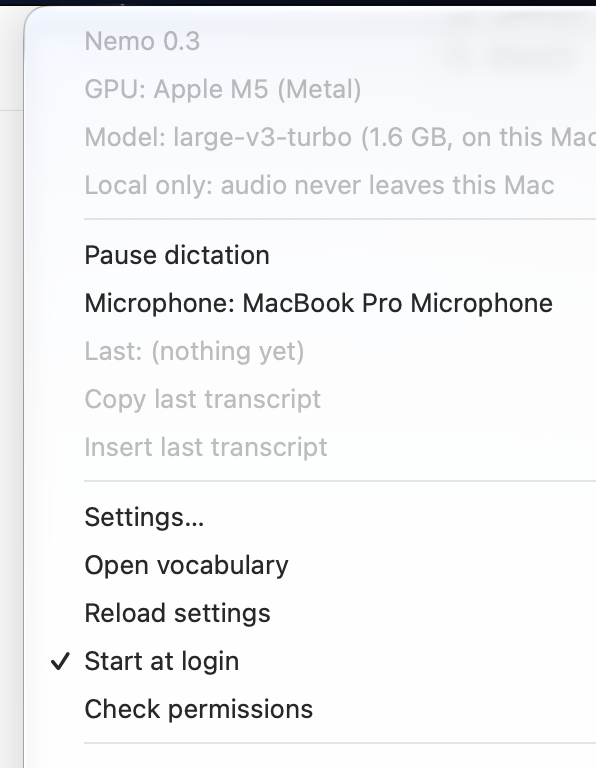
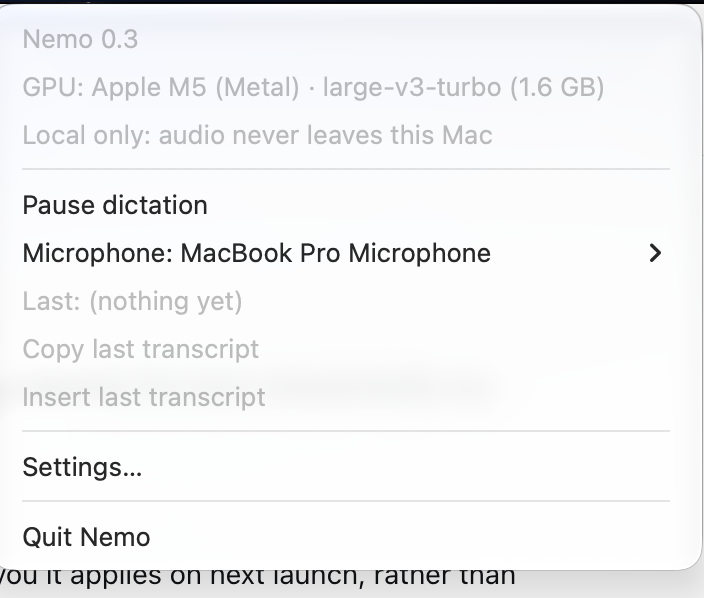
Menu: keep only what is about dictating
Settings absorbed vocabulary, reload, start-at-login and check-permissions, so the
menu drops them: fifteen rows down to ten. Engine and model share one line - two
facts, one row - and the microphone keeps its live name.

The menu is now: state, pause, microphone, history, Settings, Quit.

Changed region(s): [[0.0, 0.0, 1.0, 0.9933], [0.9664, 0.0, 0.9966, 0.0301]]

diff --git a/nemo_platform/macos/menubar.py b/nemo_platform/macos/menubar.py
@@ -231,8 +231,8 @@ class MenuBar:
     def _build_menu(self) -> NSMenu:
         menu = NSMenu.alloc().init()
         self._add(menu, "version", f"Nemo {self.version}", None, enabled=False)
+        # Engine and model on one line: two facts, one row, less to read.
         self._add(menu, "engine", "Engine: starting...", None, enabled=False)
-        self._add(menu, "model", "Model", None, enabled=False)
         self._add(menu, "privacy", "Local only: audio never leaves this Mac", None, enabled=False)
         menu.addItem_(NSMenuItem.separatorItem())
         self._add(menu, "pause", "Pause dictation", "pause:")
@@ -248,11 +248,9 @@ class MenuBar:
         self._add(menu, "copy", "Copy last transcript", "copy:")
         self._add(menu, "insert", "Insert last transcript", "insert:")
         menu.addItem_(NSMenuItem.separatorItem())
+        # Settings owns vocabulary, reload, login and permissions now; the menu
+        # keeps only what is about dictating.
         self._add(menu, "settings", "Settings…", "settings:")
-        self._add(menu, "vocab", "Open vocabulary", "vocabulary:")
-        self._add(menu, "reload", "Reload settings", "reload:")
-        self._add(menu, "startup", "Start at login", "startup:")
-        self._add(menu, "perms", "Check permissions", "permissions:")
         menu.addItem_(NSMenuItem.separatorItem())
         self._add(menu, "quit", "Quit Nemo", "quit:")
         return menu
@@ -268,7 +266,7 @@ class MenuBar:
     def _refresh(self, menu) -> None:
         self._rebuild_mic_menu()
         lines = self._lines()
-        for key, index in (("engine", 0), ("model", 1), ("privacy", 2)):
+        for key, index in (("engine", 0), ("privacy", 1)):
             item = self._items.get(key)
             if item is not None and index < len(lines) and lines[index]:
                 item.setTitle_(lines[index])
@@ -285,9 +283,6 @@ class MenuBar:
         pause = self._items.get("pause")
         if pause is not None:
             pause.setState_(1 if self._paused() else 0)
-        startup = self._items.get("startup")
-        if startup is not None:
-            startup.setState_(1 if self.startup_get() else 0)
         self._apply_icon()
 
     def _rebuild_mic_menu(self) -> None:

diff --git a/nemo.py b/nemo.py
@@ -1653,7 +1653,7 @@ def status_report(verify: bool = False) -> int:
 
 # ---- what the app says about itself ---------------------------------------
 def describe_engine(server: "Server") -> list:
-    """Three facts for the tray menu, each one true of the running process.
+    """Two facts for the menu, each one true of the running process.
 
     Written as a module function rather than a closure so it can be tested: the
     point of these lines is that they report reality, so "does it say the right
@@ -1674,14 +1674,13 @@ def describe_engine(server: "Server") -> list:
     model_name = Path(MODEL_FILE).stem.replace("ggml-", "")
     try:
         gb = MODEL.stat().st_size / 1e9
-        where = "Mac"
-        model = f"Model: {model_name} ({gb:.1f} GB, on this {where})"
+        model = f" · {model_name} ({gb:.1f} GB)"
     except OSError:
-        model = f"Model: {model_name}"
+        model = f" · {model_name}"
 
-    # The claim worth making, and the one a user can check: the audio goes to a
-    # loopback port answered by a process on this machine, and nowhere else.
-    return [engine, model, privacy_line()]
+    # One line for what is doing the work and with what; then the claim a user can
+    # check: the audio goes to a loopback port answered on this machine, nowhere else.
+    return [f"{engine}{model}", privacy_line()]
 
 
 def main() -> int:

diff --git a/README.md b/README.md
@@ -44,8 +44,9 @@ The pill appears on whichever screen holds the pointer, and the menu bar icon tu
 
 ![Every pill state](docs/pill-states.png)
 
-The menu carries the engine and model the running process reports, a microphone
-picker, the last transcript, settings and vocabulary, and start-at-login:
+The menu stays short: what is doing the work, the microphone by name, pause, the
+last transcript, Settings, and Quit. Everything that used to be a menu item —
+vocabulary, login, permissions, reload — lives in the window now:
 
 ![The menu](docs/menu.png)
 
